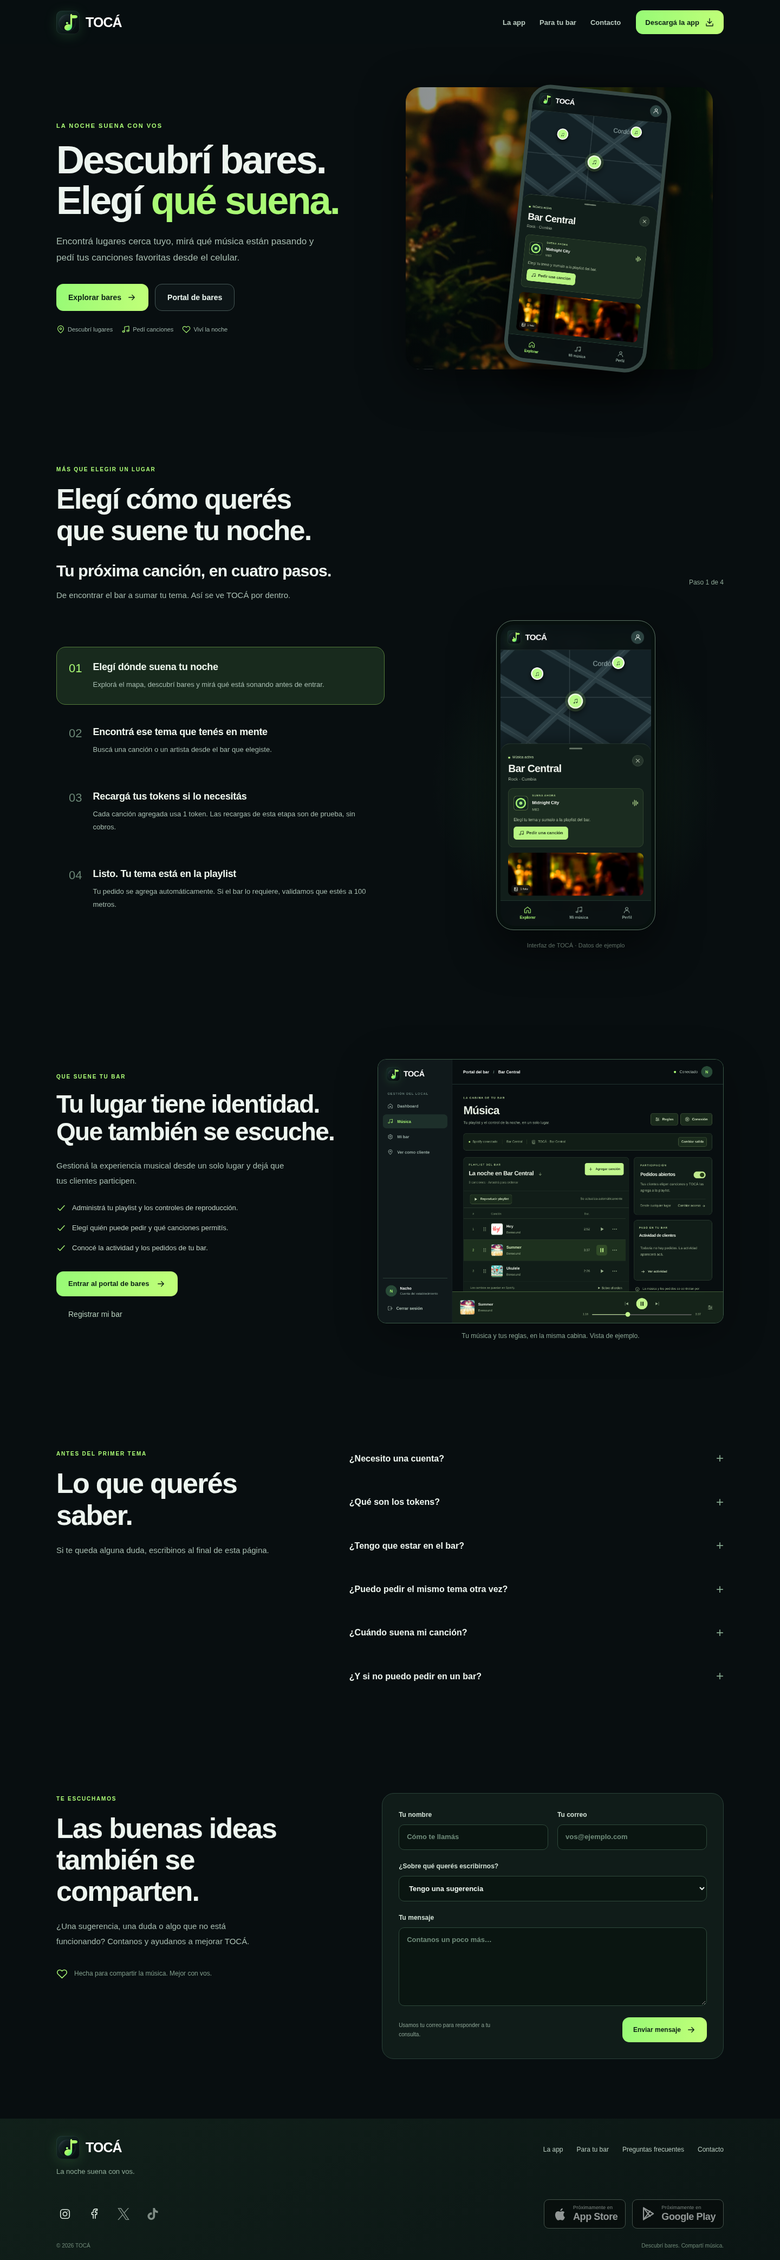
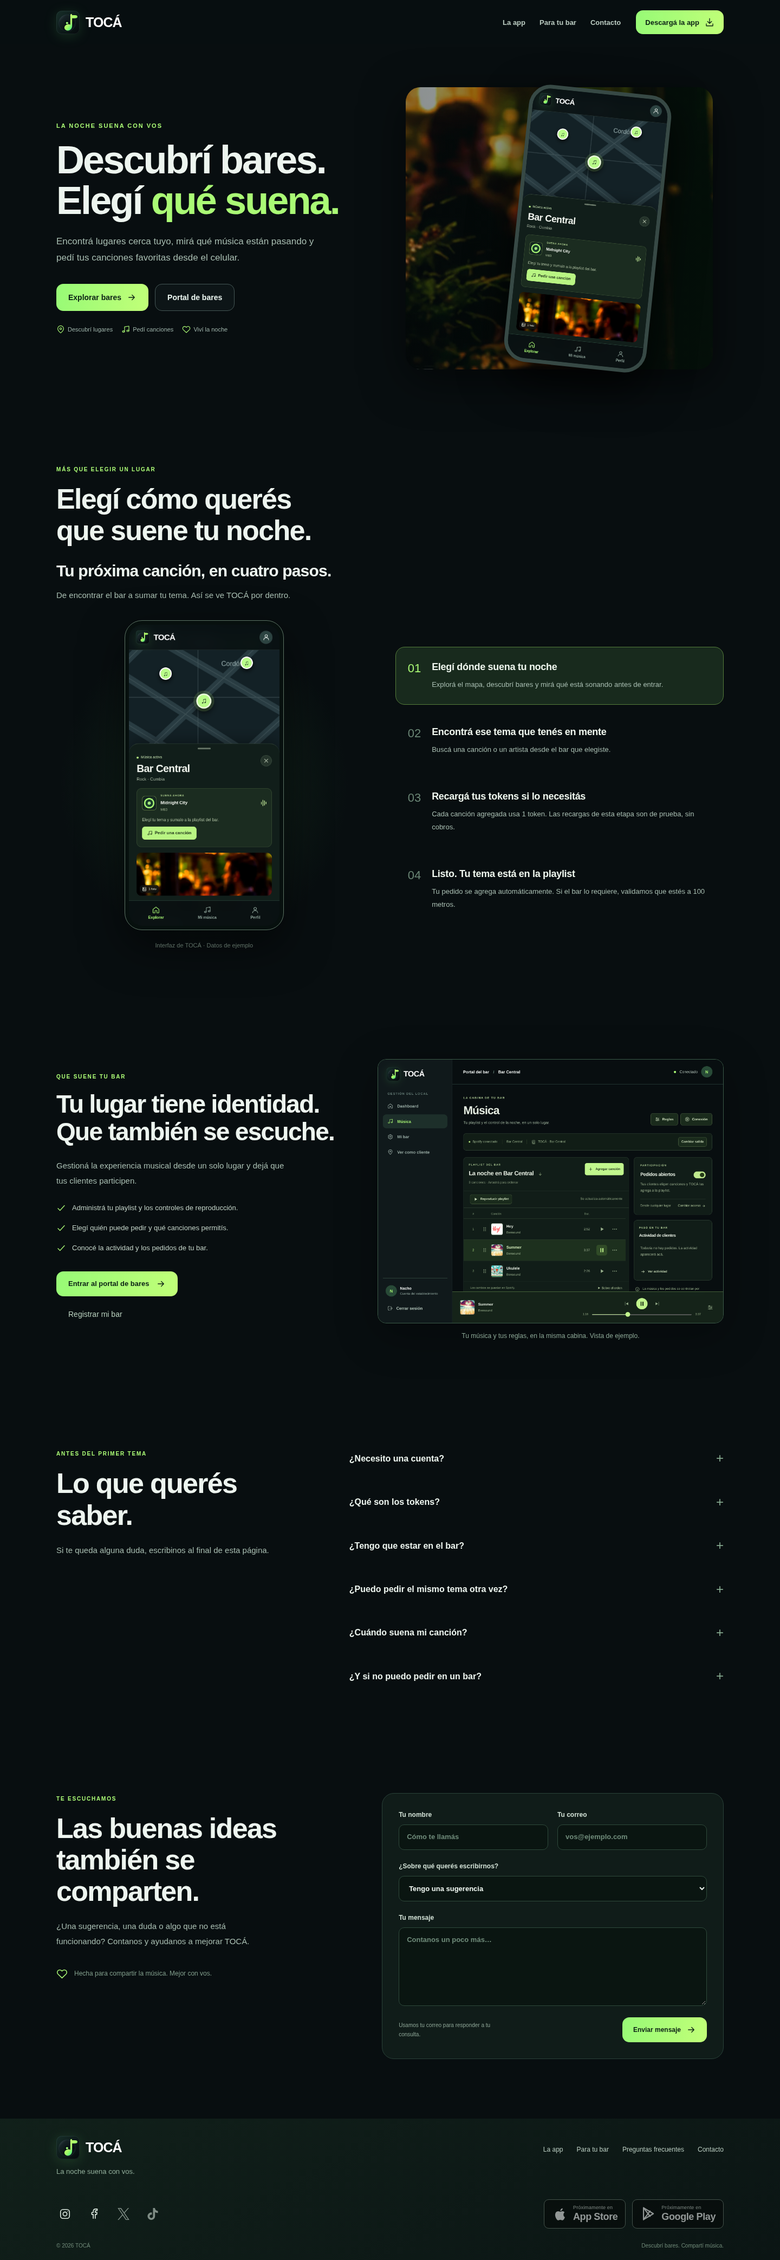
Swap homepage walkthrough columns and remove step counter

Changed region(s): [[0.0625, 0.2804, 0.9375, 0.4051], [0.5625, 0.3428, 0.5938, 0.4051]]

diff --git a/web/landing.css b/web/landing.css
@@ -24,11 +24,9 @@
 .landing-walkthrough{margin-top:0}
 .landing-walkthrough>.landing-section-heading{margin-bottom:32px}
 .landing-walkthrough>.landing-walkthrough-heading{display:flex;align-items:center;justify-content:space-between;gap:24px;max-width:none}
-.landing-walkthrough-controls{display:flex;align-items:center;gap:14px;flex:none}
-.landing-walkthrough-controls>span{color:#8ca594;font-size:12px;white-space:nowrap;font-variant-numeric:tabular-nums}
 .landing-walkthrough h3{font-size:30px;line-height:1.2;letter-spacing:-.8px;margin:0 0 13px}
-.landing-how-grid{display:grid;grid-template-columns:minmax(0,1fr) minmax(0,.9fr);gap:80px;align-items:center}
-.landing-stages{display:grid;gap:13px}
+.landing-how-grid{display:grid;grid-template-columns:minmax(0,.9fr) minmax(0,1fr);grid-template-areas:"phone steps";gap:80px;align-items:center}
+.landing-stages{grid-area:steps;display:grid;gap:13px}
 .landing-stages>button{display:flex;text-align:left;align-items:center;gap:20px;width:100%;padding:24px 22px;border:1px solid transparent;border-radius:17px;color:#c1d0c5;background:transparent;font:inherit;cursor:pointer;transition:background-color .65s ease-in-out,border-color .65s ease-in-out}
 .landing-stages>button[aria-selected=true]{border-color:#547c3a;background:#182a1d}
 .landing-stages>button{position:relative;overflow:hidden}
@@ -37,7 +35,7 @@
 .landing-stage-number{transition:color .65s ease-in-out}
 .landing-stages>button>span:nth-child(2){flex:1;min-width:0}.landing-stages strong{display:block;font-size:18px;font-weight:750;line-height:1.4;letter-spacing:-.3px;color:#eef6ed}
 .landing-stages small{display:block;font-size:13px;line-height:1.8;color:var(--landing-muted);margin-top:8px}
-.landing-screen-area{display:grid;grid-template-columns:minmax(0,1fr);justify-items:center;align-content:center;gap:20px;min-width:0;background:radial-gradient(ellipse at center,#214a2b6b,transparent 69%)}
+.landing-screen-area{grid-area:phone;display:grid;grid-template-columns:minmax(0,1fr);justify-items:center;align-content:center;gap:20px;min-width:0;background:radial-gradient(ellipse at center,#214a2b6b,transparent 69%)}
 .landing-screen-phone{display:grid;grid-template-columns:minmax(0,1fr);width:min(100%,294px);padding:7px;border:1px solid #5c7364;background:#07100e;border-radius:32px;overflow:hidden;isolation:isolate;box-shadow:0 30px 80px #0008;line-height:0}
 .landing-screen-panel{grid-area:1/1;margin:0;min-width:0;opacity:0;visibility:hidden;pointer-events:none;z-index:0;transition:opacity .65s ease-in-out,visibility 0s linear .65s}
 .landing-screen-panel.is-active{opacity:1;visibility:visible;pointer-events:auto;z-index:1;transition-delay:0s,0s}
@@ -76,5 +74,5 @@
 .landing-expanded h1:focus,.landing-download-page h1:focus{outline:none}
 @media(max-width:1000px){.landing-expanded .toca-landing-header nav{gap:16px}.landing-expanded .toca-hero-copy h1{font-size:56px}.landing-expanded .toca-landing-hero{gap:25px}.landing-how-grid{gap:35px}.landing-owners{gap:35px}.landing-contact{gap:38px}.landing-faq{gap:40px}.landing-footer-top{flex-wrap:wrap}}
 @media(max-width:760px){.landing-expanded .toca-landing-header{height:76px;padding:0 16px;gap:10px}.landing-expanded .toca-landing-header>.toca-brand{font-size:22px;padding:0;gap:8px}.landing-expanded .toca-landing-header .toca-brand img{width:30px;height:30px}.landing-expanded .toca-landing-header .toca-brand strong{font-size:22px}.landing-header-actions{gap:8px}.landing-menu-toggle{display:grid;place-items:center;flex:none;width:34px;height:38px;padding:0;border:1px solid #294138;border-radius:9px;background:#13221b;color:#d2e3d6;cursor:pointer}.landing-expanded .toca-landing-header .toca-btn{font-size:11px;padding:10px 11px;min-height:39px;gap:6px}.landing-expanded .toca-landing-header nav{display:none;position:absolute;top:calc(100% + 14px);right:0;width:min(250px,calc(100vw - 32px));padding:9px;border:1px solid #34503e;border-radius:14px;background:#101e18;box-shadow:0 16px 40px #0008;font-size:14px}.landing-expanded .toca-landing-header.is-menu-open nav{display:grid;gap:3px}.landing-expanded .toca-landing-header nav a{display:block;padding:12px 14px;border-radius:9px}.landing-expanded .toca-landing-header nav a:hover{background:#1c3021}.landing-walkthrough{margin-top:0}.landing-walkthrough h3{font-size:26px}.landing-expanded .toca-landing-hero{padding:46px 22px 55px;min-height:0;grid-template-columns:minmax(0,1fr);gap:35px}.landing-expanded .toca-hero-copy h1{font-size:49px;letter-spacing:-2px}.landing-expanded .toca-hero-copy>p{font-size:15px}.landing-expanded .toca-trust{gap:13px;font-size:10px}.landing-section{padding:65px 22px;scroll-margin-top:96px}.landing-section h2{font-size:35px;letter-spacing:-1.1px}.landing-section-heading{margin-bottom:32px}.landing-how-grid,.landing-owners,.landing-contact,.landing-faq{grid-template-columns:minmax(0,1fr);gap:36px}.landing-stages>button{gap:14px;padding:20px 17px}.landing-stages strong{font-size:16px}.landing-stages small{font-size:12px}.landing-screen-area .landing-screen-phone{width:min(100%,270px)}.landing-owners figure{margin-top:5px}.landing-contact{padding-top:65px;padding-bottom:65px}#landing-contact-form{padding:23px;gap:19px}.landing-form-row{grid-template-columns:minmax(0,1fr);gap:19px}.landing-form-end{flex-direction:column;align-items:stretch;gap:15px}.landing-form-end small{max-width:none}.landing-form-end .toca-btn{justify-content:center}.landing-contact-note{margin-top:25px}.landing-faq .landing-section-heading{margin:0}.landing-footer{padding:24px 22px 18px}.landing-footer-top{display:block;padding-bottom:14px}.landing-footer nav{gap:12px 18px;margin-top:12px;padding-top:8px}.landing-footer-bottom{align-items:flex-start;flex-direction:column;gap:16px}.landing-footer-bottom .landing-store-badges{display:grid;grid-template-columns:repeat(2,minmax(0,1fr));width:100%;max-width:330px;gap:8px}.landing-store{min-width:142px;padding:8px 11px}.landing-store strong{font-size:17px}.landing-footer .landing-store{min-width:0;gap:8px;padding:8px 10px}.landing-footer .landing-store>svg{width:22px;height:24px}.landing-footer .landing-store strong{font-size:15px}.landing-footer-legal{flex-direction:column;gap:5px}.landing-download-dialog{padding-left:22px;padding-right:22px}.landing-download-dialog .landing-store{min-width:130px}.landing-download-dialog .landing-store strong{font-size:16px}.landing-download-dialog .landing-store-badges{gap:8px}.landing-download-dialog .landing-store>svg{width:24px}}
-@media(max-width:760px){.landing-walkthrough>.landing-walkthrough-heading{align-items:flex-start;flex-direction:column;gap:18px}.landing-walkthrough-controls{width:100%;justify-content:space-between}}
+@media(max-width:760px){.landing-walkthrough>.landing-walkthrough-heading{align-items:flex-start;flex-direction:column;gap:18px}.landing-how-grid{grid-template-areas:"steps" "phone"}}
 @media(prefers-reduced-motion:reduce){.landing-stages>button,.landing-stage-number,.landing-screen-panel,.landing-faq summary>span{transition:none}}

diff --git a/web/sw.js b/web/sw.js
@@ -1,4 +1,4 @@
-const CACHE="toca-shell-0bcc692de2bb87ba";const SHELL=["/", "/index.html", "/manifest.webmanifest", "/assets/icon.svg", "/styles.css", "/toca.css?v=admin-width-1", "/toca-admin-clean.css?v=1735", "/toca-dashboard-controls.css?v=1737", "/toca-mibar-v174.css?v=174", "/toca-hours-v175.css?v=176", "/toca-v180.css?v=180", "/toca-map-credits-v181.css?v=181", "/toca-location-v184.css?v=184", "/toca-v184.css?v=184", "/toca-v185.css?v=185", "/toca-location-v1810.css?v=1810", "/toca-description-v1811.css?v=1811", "/toca-artwork-v1813.css?v=1813", "/toca-now-v1816.css?v=1816", "/toca-playlist-v1820.css?v=1820", "/toca-playlist-scroll-v1821.css?v=1821", "/toca-how-v1823.css?v=1823", "/toca-customer-v1826.css?v=1826", "/toca-presence-v1827.css?v=1827", "/toca-access-layout-v1829.css?v=1829", "/toca-cleanup-v1830.css?v=1830", "/toca-mi-bar-cards-v1839.css?v=1839", "/toca-spacing-v1840.css?v=1840", "/toca-profile-v1841.css?v=1841", "/toca-map-hover-v1845.css?v=1845", "/toca-google-v1847.css?v=1847", "/admin-profile.css?v=1", "/account.css?v=1", "/music-cabina.css?v=number-heading-1", "/venue-import.css?v=bio-hours-1", "/venue-onboarding.css?v=1", "/venue-profile.css?v=admin-width-1", "/venue-gallery.css?v=1", "/customer-wallet.css?v=brand-colors-3", "/bar-dashboard.css?v=1", "/map-place-panel.css?v=5", "/landing.css?v=compact-footer-10", "/config.js?v=marketing-2", "/assets/qr.js", "/toca-hours-v175.js?v=176", "/request-sync.js?v=redirect-2", "/app.js?v=resume-after-topup-3", "/map-place-panel.js?v=5", "/toca-map-credits-v181.js?v=181", "/toca-ui.js?v=landing-3", "/bar-dashboard.js?v=1", "/venue-gallery.js?v=1", "/customer-wallet.js?v=resume-after-topup-2", "/toca-customer-v1826.js?v=account-layout-2", "/live-music.js?v=1816", "/venue-location.js?v=onboarding-1", "/toca-location-v1828.js?v=1828", "/toca-v17.js?v=venue-gallery-1", "/toca-v1738.js?v=1738", "/toca-v1739.js?v=1739", "/toca-artwork-v1813.js?v=1813", "/toca-now-v1816.js?v=1816", "/toca-playlist-v1820.js?v=1821", "/toca-presence-v1827.js?v=presence-recovery-1", "/toca-admin-access-v1829.js?v=distance-1", "/toca-cleanup-v1830.js?v=1830", "/toca-mi-bar-cards-v1839.js?v=1839", "/toca-profile-v1841.js?v=tokens-1", "/toca-google-v1847.js?v=1847b", "/account.js?v=2", "/map-loader.js?v=distance-map-1", "/landing.js?v=content-10", "/runtime.js?v=3", "/admin-profile.js?v=1", "/bio-hours.js?v=1", "/venue-import.js?v=profile-sections-1", "/music-cabina.js?v=number-heading-1", "/music-cabina-drag.js?v=drag-2", "/music-edit-intent.js?v=1", "/music-playback.js?v=1", "/admin-music.js?v=playlist-edits-3", "/venue-onboarding.js?v=profile-sections-1", "/venue-profile.js?v=hours-2", "/assets/toca-home-map.svg", "/assets/venues/bar-1.webp", "/assets/venues/bar-2.webp", "/assets/venues/bar-3.webp", "/assets/venues/bar-4.webp", "/assets/venues/bar-5.webp", "/assets/venues/bar-6.webp", "/assets/landing/explore.png", "/assets/landing/search.png", "/assets/landing/tokens.png", "/assets/landing/success.png", "/assets/landing/admin-music.png?v=covers-2"];
+const CACHE="toca-shell-e3c156c8e07c58aa";const SHELL=["/", "/index.html", "/manifest.webmanifest", "/assets/icon.svg", "/styles.css", "/toca.css?v=admin-width-1", "/toca-admin-clean.css?v=1735", "/toca-dashboard-controls.css?v=1737", "/toca-mibar-v174.css?v=174", "/toca-hours-v175.css?v=176", "/toca-v180.css?v=180", "/toca-map-credits-v181.css?v=181", "/toca-location-v184.css?v=184", "/toca-v184.css?v=184", "/toca-v185.css?v=185", "/toca-location-v1810.css?v=1810", "/toca-description-v1811.css?v=1811", "/toca-artwork-v1813.css?v=1813", "/toca-now-v1816.css?v=1816", "/toca-playlist-v1820.css?v=1820", "/toca-playlist-scroll-v1821.css?v=1821", "/toca-how-v1823.css?v=1823", "/toca-customer-v1826.css?v=1826", "/toca-presence-v1827.css?v=1827", "/toca-access-layout-v1829.css?v=1829", "/toca-cleanup-v1830.css?v=1830", "/toca-mi-bar-cards-v1839.css?v=1839", "/toca-spacing-v1840.css?v=1840", "/toca-profile-v1841.css?v=1841", "/toca-map-hover-v1845.css?v=1845", "/toca-google-v1847.css?v=1847", "/admin-profile.css?v=1", "/account.css?v=1", "/music-cabina.css?v=number-heading-1", "/venue-import.css?v=bio-hours-1", "/venue-onboarding.css?v=1", "/venue-profile.css?v=admin-width-1", "/venue-gallery.css?v=1", "/customer-wallet.css?v=brand-colors-3", "/bar-dashboard.css?v=1", "/map-place-panel.css?v=5", "/landing.css?v=walkthrough-layout-11", "/config.js?v=marketing-2", "/assets/qr.js", "/toca-hours-v175.js?v=176", "/request-sync.js?v=redirect-2", "/app.js?v=resume-after-topup-3", "/map-place-panel.js?v=5", "/toca-map-credits-v181.js?v=181", "/toca-ui.js?v=landing-3", "/bar-dashboard.js?v=1", "/venue-gallery.js?v=1", "/customer-wallet.js?v=resume-after-topup-2", "/toca-customer-v1826.js?v=account-layout-2", "/live-music.js?v=1816", "/venue-location.js?v=onboarding-1", "/toca-location-v1828.js?v=1828", "/toca-v17.js?v=venue-gallery-1", "/toca-v1738.js?v=1738", "/toca-v1739.js?v=1739", "/toca-artwork-v1813.js?v=1813", "/toca-now-v1816.js?v=1816", "/toca-playlist-v1820.js?v=1821", "/toca-presence-v1827.js?v=presence-recovery-1", "/toca-admin-access-v1829.js?v=distance-1", "/toca-cleanup-v1830.js?v=1830", "/toca-mi-bar-cards-v1839.js?v=1839", "/toca-profile-v1841.js?v=tokens-1", "/toca-google-v1847.js?v=1847b", "/account.js?v=2", "/map-loader.js?v=distance-map-1", "/landing.js?v=walkthrough-layout-11", "/runtime.js?v=3", "/admin-profile.js?v=1", "/bio-hours.js?v=1", "/venue-import.js?v=profile-sections-1", "/music-cabina.js?v=number-heading-1", "/music-cabina-drag.js?v=drag-2", "/music-edit-intent.js?v=1", "/music-playback.js?v=1", "/admin-music.js?v=playlist-edits-3", "/venue-onboarding.js?v=profile-sections-1", "/venue-profile.js?v=hours-2", "/assets/toca-home-map.svg", "/assets/venues/bar-1.webp", "/assets/venues/bar-2.webp", "/assets/venues/bar-3.webp", "/assets/venues/bar-4.webp", "/assets/venues/bar-5.webp", "/assets/venues/bar-6.webp", "/assets/landing/explore.png", "/assets/landing/search.png", "/assets/landing/tokens.png", "/assets/landing/success.png", "/assets/landing/admin-music.png?v=covers-2"];
 self.addEventListener('install',e=>e.waitUntil(caches.open(CACHE).then(c=>c.addAll(SHELL)).then(()=>self.skipWaiting())));
 self.addEventListener('activate',e=>e.waitUntil(caches.keys().then(keys=>Promise.all(keys.filter(k=>k.startsWith('toca-shell-')&&k!==CACHE).map(k=>caches.delete(k)))).then(()=>self.clients.claim())));
 self.addEventListener('fetch',e=>{const u=new URL(e.request.url);if(e.request.method!=='GET'||u.origin!==location.origin||u.pathname.startsWith('/api/'))return;

diff --git a/web/landing.js b/web/landing.js
@@ -32,7 +32,7 @@
  ];
  function walkthrough(){return `
   <div class="landing-walkthrough">
-   <div class="landing-section-heading landing-walkthrough-heading"><div><h3>Tu próxima canción, en cuatro pasos.</h3><p>De encontrar el bar a sumar tu tema. Así se ve TOCÁ por dentro.</p></div><div class="landing-walkthrough-controls"><span data-stage-count>Paso 1 de 4</span></div></div>
+   <div class="landing-section-heading landing-walkthrough-heading"><div><h3>Tu próxima canción, en cuatro pasos.</h3><p>De encontrar el bar a sumar tu tema. Así se ve TOCÁ por dentro.</p></div></div>
    <div class="landing-how-grid">
     <div class="landing-stages" role="tablist" aria-label="Cómo funciona TOCÁ" aria-orientation="vertical">${stages.map(([title,copy],i)=>`<button type="button" role="tab" id="landing-stage-${i}" aria-controls="landing-screen-${i}" aria-selected="${i===0}" tabindex="${i===0?'0':'-1'}" data-landing-stage="${i}"><span class="landing-stage-number">0${i+1}</span><span><strong>${title}</strong><small>${copy}</small></span></button>`).join('')}</div>
     <div class="landing-screen-area">
@@ -72,7 +72,7 @@
  function scrollSection(id,smooth=true){if(id==='como-funciona')id='la-app';if(!sections.includes(id))return;const target=document.getElementById(id);if(!target)return;target.scrollIntoView({behavior:smooth&&!matchMedia('(prefers-reduced-motion:reduce)').matches?'smooth':'instant',block:'start'});}
  function activateStage(root,index){root.querySelectorAll('[data-landing-stage]').forEach(button=>{const selected=Number(button.dataset.landingStage)===index;button.setAttribute('aria-selected',String(selected));button.tabIndex=selected?0:-1;});root.querySelectorAll('[role="tabpanel"]').forEach((panel,i)=>{const selected=i===index;panel.classList.toggle('is-active',selected);panel.setAttribute('aria-hidden',String(!selected));panel.inert=!selected;});stagePlayers.get(root)?.select(index);}
  function startWalkthrough(root){
-  const grid=root.querySelector('.landing-how-grid'),counter=root.querySelector('[data-stage-count]');
+  const grid=root.querySelector('.landing-how-grid');
   const motion=matchMedia('(prefers-reduced-motion:reduce)'),duration=5000;
   let index=0,timer=null,visible=false,disposed=false;
   const running=()=>!disposed&&root.isConnected&&visible&&!document.hidden&&!motion.matches;
@@ -81,8 +81,7 @@
    if(reset||!running())cancel();
    if(running()&&timer===null)timer=setTimeout(()=>{timer=null;if(running())activateStage(grid,(index+1)%stages.length);},duration);
   }
-  function updateCount(){counter.textContent=`Paso ${index+1} de ${stages.length}`;}
-  stagePlayers.set(grid,{select(next){index=next;updateCount();schedule(true);}});
+  stagePlayers.set(grid,{select(next){index=next;schedule(true);}});
   const observer=new IntersectionObserver(entries=>{
    visible=entries.some(entry=>entry.isIntersecting);
    if(visible)root.querySelectorAll('img[loading="lazy"]').forEach(image=>image.loading='eager');
@@ -90,7 +89,7 @@
   },{threshold:0,rootMargin:'-90px 0px 0px 0px'});
   observer.observe(root);
   const visibility=()=>schedule(true),preference=()=>schedule(true);
-  document.addEventListener('visibilitychange',visibility);motion.addEventListener('change',preference);updateCount();
+  document.addEventListener('visibilitychange',visibility);motion.addEventListener('change',preference);
   return ()=>{disposed=true;cancel();observer.disconnect();stagePlayers.delete(grid);
    document.removeEventListener('visibilitychange',visibility);motion.removeEventListener('change',preference);
   };

diff --git a/web/index.html b/web/index.html
@@ -58,7 +58,7 @@
   <link rel="stylesheet" href="/customer-wallet.css?v=brand-colors-3" />
   <link rel="stylesheet" href="/bar-dashboard.css?v=1" />
   <link rel="stylesheet" href="/map-place-panel.css?v=5" />
-  <link rel="stylesheet" href="/landing.css?v=compact-footer-10" />
+  <link rel="stylesheet" href="/landing.css?v=walkthrough-layout-11" />
 </head>
 <body>
   <div id="app"></div>
@@ -92,7 +92,7 @@
   <script src="/toca-google-v1847.js?v=1847b" defer></script>
   <script src="/account.js?v=2" defer></script>
   <script src="/map-loader.js?v=distance-map-1" defer></script>
-  <script src="/landing.js?v=content-10" defer></script>
+  <script src="/landing.js?v=walkthrough-layout-11" defer></script>
   <script src="/runtime.js?v=3" defer></script>
   <script src="/admin-profile.js?v=1" defer></script>
   <script src="/bio-hours.js?v=1" defer></script>

diff --git a/scripts/test-landing-autoplay.py b/scripts/test-landing-autoplay.py
@@ -25,15 +25,14 @@ try:
    page.add_init_script("localStorage.setItem('amplify-mode','live')")
    page.route('https://**/*',lambda route:route.abort())
    page.route('http://localhost:8080/**',lambda route:route.fulfill(content_type='application/json',body='[]',headers={'Access-Control-Allow-Origin':'*'}))
-   page.goto(BASE+'/#/');expect(page.locator('[data-stage-count]')).to_have_text('Paso 1 de 4')
-   assert not page.locator('.landing-stage-progress,[role=progressbar],[data-stage-playback]').count()
+   page.goto(BASE+'/#/');expect(page.locator('[data-landing-stage="0"]')).to_have_attribute('aria-selected','true')
+   assert not page.locator('.landing-stage-progress,[role=progressbar],[data-stage-playback],[data-stage-count]').count()
    assert not page.locator('[data-landing-stage] svg').count(),'Step arrows must be removed'
    return context,page,errors
   def active(page,index):return page.locator(f'[data-landing-stage="{index}"]')
   def expect_step(page,index):
    expect(active(page,index)).to_have_attribute('aria-selected','true',timeout=6500)
    expect(page.locator(f'#landing-screen-{index}')).to_be_visible()
-   expect(page.locator('[data-stage-count]')).to_have_text(f'Paso {index+1} de 4')
   if mode=='desktop':
    context,page,errors=setup(viewport=dict(width=1440,height=900))
    page.wait_for_timeout(5300);expect_step(page,0)
@@ -78,9 +77,9 @@ try:
    page.evaluate("Object.defineProperty(document,'hidden',{configurable:true,get:()=>false});document.dispatchEvent(new Event('visibilitychange'))")
    page.wait_for_timeout(4400);expect_step(page,0);expect_step(page,1)
    page.locator('#contacto').scroll_into_view_if_needed();page.wait_for_timeout(5300);expect_step(page,1)
-   old=page.locator('[data-stage-count]').element_handle()
+   old=page.locator('.landing-how-grid').element_handle()
    page.goto(BASE+'/#/download');expect(page.locator('.landing-download-page')).to_be_visible()
-   frozen=old.text_content();page.wait_for_timeout(5300);assert old.text_content()==frozen
+   frozen=old.evaluate("node=>node.querySelector('[aria-selected=true]').dataset.landingStage");page.wait_for_timeout(5300);assert old.evaluate("node=>node.querySelector('[aria-selected=true]').dataset.landingStage")==frozen
    page.goto(BASE+'/#/');expect_step(page,0);assert not errors,errors
    context.close();print('PASS hidden/offscreen pause, full interval on return, navigation cleanup and fresh start',flush=True)
   else:

diff --git a/docs/INICIO.md b/docs/INICIO.md
@@ -4,7 +4,7 @@ La página reúne la presentación, “La app” con el recorrido en cuatro paso
 
 Los enlaces de la cabecera y el pie llevan a secciones de la misma página mediante el router existente: `/#/?section=la-app`, `/#/?section=para-bares` y `/#/?section=contacto`. Los enlaces anteriores a `section=como-funciona` siguen llevando a “La app”. Funcionan al abrir un enlace directo y al usar atrás/adelante, y conservan el formulario mientras se navega entre secciones. La cabecera permanece visible; sus enlaces se agrupan a la derecha junto a “Descargá la app”. En celular se reúnen en un menú junto al mismo botón.
 
-El recorrido de cuatro pasos avanza automáticamente cada cinco segundos y vuelve al primero al terminar. Muestra el número de paso, sin barras de progreso ni botón de pausa. El borde, el fondo y las fotos del paso saliente y entrante cambian suavemente durante 650 ms. Las fotos se superponen dentro de un único marco para hacer el fundido sin saltos de tamaño. Los pasos no muestran flechas. El mouse y el foco no detienen el avance; elegir un paso manualmente reinicia los cinco segundos y continúa el recorrido. Se detiene al salir de la sección o al ocultar la pestaña. Al volver comienza un intervalo completo. Con movimiento reducido no hay fundido ni avance automático y los cuatro pasos siguen disponibles manualmente. El temporizador y el observador se eliminan al salir de inicio.
+El recorrido de cuatro pasos avanza automáticamente cada cinco segundos y vuelve al primero al terminar. En escritorio el celular aparece a la izquierda y los pasos a la derecha; en celular los pasos se muestran antes de las imágenes. Se presentan sin contador adicional, barras de progreso ni botón de pausa. El borde, el fondo y las fotos del paso saliente y entrante cambian suavemente durante 650 ms. Las fotos se superponen dentro de un único marco para hacer el fundido sin saltos de tamaño. Los pasos no muestran flechas. El mouse y el foco no detienen el avance; elegir un paso manualmente reinicia los cinco segundos y continúa el recorrido. Se detiene al salir de la sección o al ocultar la pestaña. Al volver comienza un intervalo completo. Con movimiento reducido no hay fundido ni avance automático y los cuatro pasos siguen disponibles manualmente. El temporizador y el observador se eliminan al salir de inicio.
 
 ## Vista previa
 
